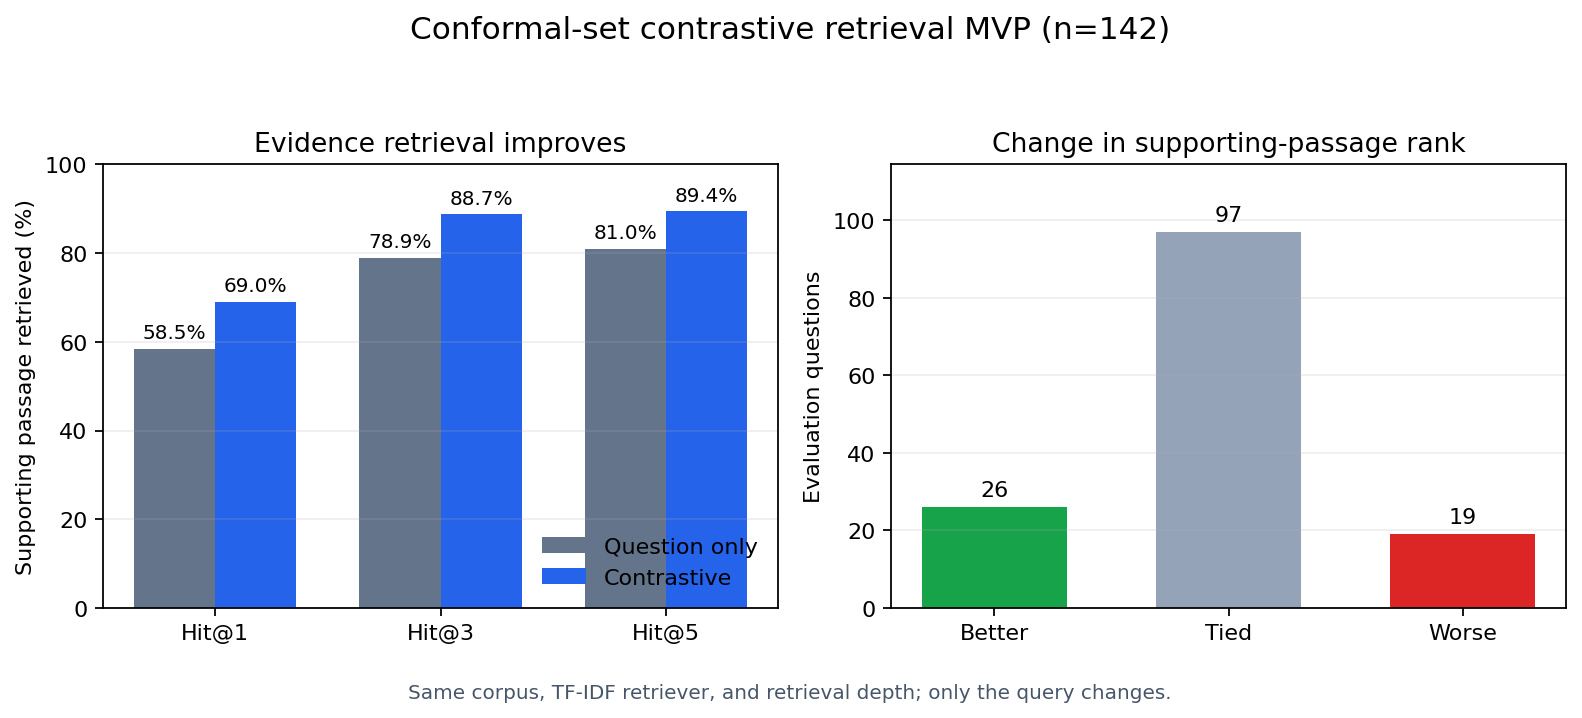
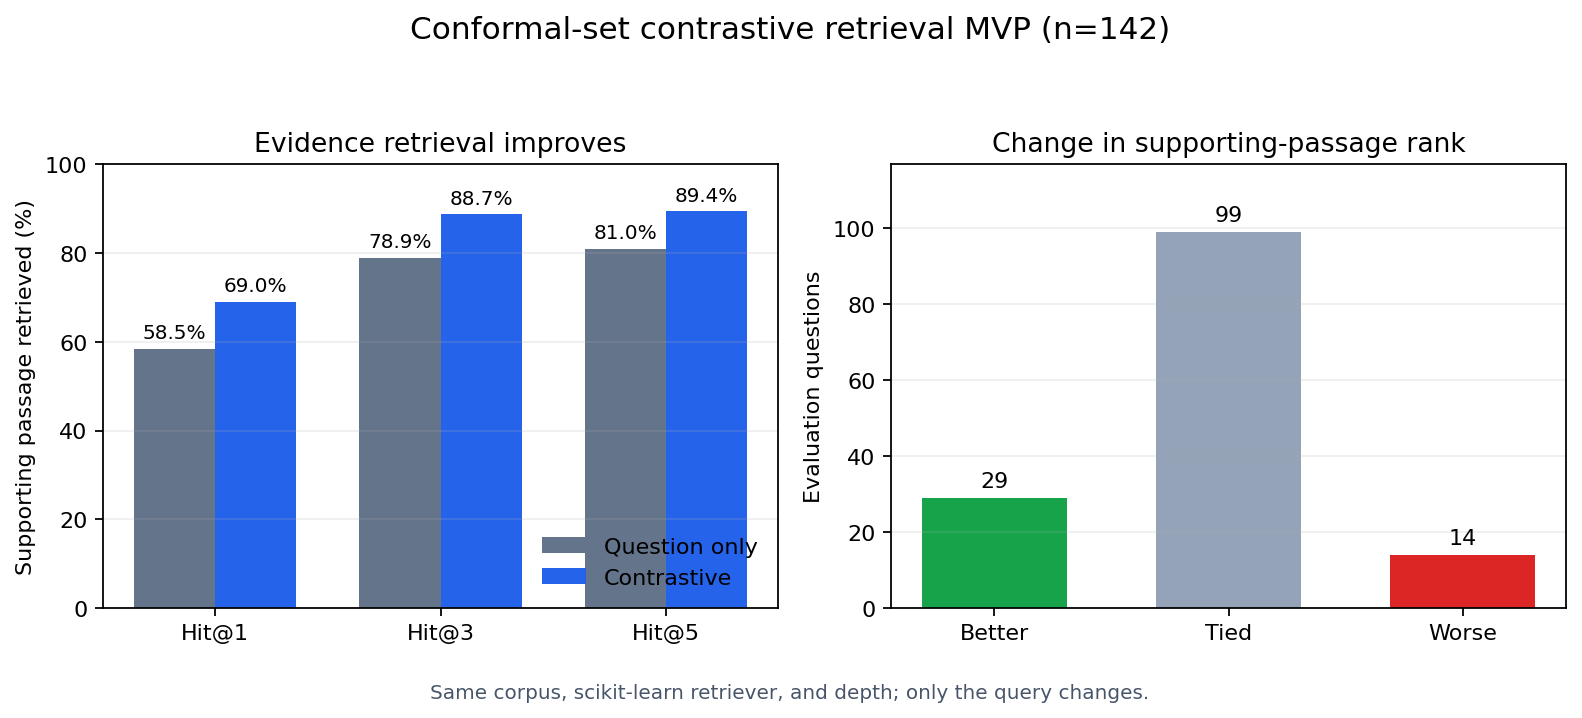
Use scikit-learn nearest-neighbor retrieval

diff --git a/experiments/contrastive_retrieval.py b/experiments/contrastive_retrieval.py
@@ -45,8 +45,11 @@ import numpy as np
 # Matplotlib draws the two result charts.
 from matplotlib import pyplot as plt
 
-# TfidfVectorizer is the small lexical search engine used in both conditions.
+# TfidfVectorizer converts passages and queries into weighted word vectors.
 from sklearn.feature_extraction.text import TfidfVectorizer
+
+# NearestNeighbors performs the cosine-similarity search and ranking.
+from sklearn.neighbors import NearestNeighbors
 
 
 # The current demo asks the VLM for one of these six option letters.
@@ -174,8 +177,8 @@ def contrastive_query(
     )
 
 
-class TfidfRetriever:
-    """A minimal lexical retriever that keeps the query comparison controlled."""
+class SklearnTfidfRetriever:
+    """A scikit-learn lexical retriever used identically for both query types."""
 
     def __init__(self, documents: Sequence[str]):
         # A search engine cannot be fitted without documents.
@@ -194,6 +197,11 @@ class TfidfRetriever:
         )
         # Learn the vocabulary and represent every passage as a sparse vector.
         self.document_matrix = self.vectorizer.fit_transform(self.documents)
+        # Ask scikit-learn to compare vectors using cosine distance. "Brute"
+        # checks every document, which is simple and fast for this 97-passage corpus.
+        self.neighbor_index = NearestNeighbors(metric="cosine", algorithm="brute")
+        # Fit the reusable search index on the document vectors.
+        self.neighbor_index.fit(self.document_matrix)
 
     def ranks(
         self, queries: Sequence[str], relevant_indices: Sequence[int]
@@ -202,18 +210,20 @@ class TfidfRetriever:
         # Each query must be paired with one known supporting-passage index.
         if len(queries) != len(relevant_indices):
             raise ValueError("queries and relevant_indices must have equal length")
-        # Turn queries into TF-IDF vectors, then compute all query-document dot
-        # products. TF-IDF normalizes vectors, so these are cosine similarities.
-        similarities = self.vectorizer.transform(queries) @ self.document_matrix.T
+        # Represent each query with the vocabulary learned from the passages.
+        query_matrix = self.vectorizer.transform(queries)
+        # Let scikit-learn rank every passage from nearest to farthest. We ask for
+        # every passage because evaluation needs the exact rank of the known hint.
+        _, ordered_documents = self.neighbor_index.kneighbors(
+            query_matrix,
+            n_neighbors=len(self.documents),
+        )
         # This list will hold positions such as 1st, 2nd, or 10th.
         ranks: List[int] = []
         # Evaluate one query and its known supporting passage at a time.
         for row_index, relevant_index in enumerate(relevant_indices):
-            # Convert this sparse similarity row into a simple score array.
-            scores = similarities.getrow(row_index).toarray()[0]
-            # Negating scores lets ascending argsort produce highest-first order.
-            # Stable sorting makes tied scores deterministic across runs.
-            ordered = np.argsort(-scores, kind="stable")
+            # Read the library-produced document order for this query.
+            ordered = ordered_documents[row_index]
             # Find the zero-based position of the supporting passage, then add
             # one so a best result is reported as rank 1 rather than rank 0.
             ranks.append(int(np.flatnonzero(ordered == relevant_index)[0]) + 1)
@@ -327,7 +337,7 @@ def plot_results(result: Mapping[str, Any], output_path: Path) -> None:
     figure.text(
         0.5,
         0.01,
-        "Same corpus, TF-IDF retriever, and retrieval depth; only the query changes.",
+        "Same corpus, scikit-learn retriever, and depth; only the query changes.",
         ha="center",
         fontsize=9,
         color="#475569",
@@ -443,7 +453,7 @@ def run_experiment(
     # Translate every known hint into the retriever's numeric document index.
     relevant_indices = [document_indices[hint] for _, _, hint in eligible]
     # Step 5: fit one retriever, ensuring both query types use the same search index.
-    retriever = TfidfRetriever(documents)
+    retriever = SklearnTfidfRetriever(documents)
     # Retrieve with the question-only queries and record supporting-passage ranks.
     baseline_ranks = retriever.ranks(baseline_queries, relevant_indices)
     # Retrieve again with contrastive queries, changing nothing else.
@@ -481,7 +491,7 @@ def run_experiment(
             "alpha": alpha,
             "qhat": qhat,
             "split": "even record id = calibration; odd record id = evaluation",
-            "retriever": "word TF-IDF cosine similarity",
+            "retriever": "scikit-learn TF-IDF + cosine NearestNeighbors",
             "top_k": list(top_k),
         },
         # These counts show how the original 4,377 records become 142 trials.

diff --git a/README.md b/README.md
@@ -28,8 +28,9 @@ only those surviving answer texts to the retrieval query find the supporting
 passage more often than querying with the question alone?
 
 It uses an even-ID calibration / odd-ID evaluation split, treats the 97 unique
-MMBench hints as the retrieval corpus, and holds the TF-IDF retriever and depth
-fixed so that only the query changes.
+MMBench hints as the retrieval corpus, and holds scikit-learn's TF-IDF plus
+cosine `NearestNeighbors` retriever and depth fixed so that only the query
+changes.
 
 ```bash
 python -m experiments.contrastive_retrieval \
@@ -39,9 +40,9 @@ python -m experiments.contrastive_retrieval \
 ```
 
 On the 142 eligible held-out non-singletons, the contrastive query improved
-hit@1 from 58.5% to 69.0%, hit@3 from 78.9% to 88.7%, and MRR from 0.688 to
-0.783. It improved the paired supporting-passage rank in 26 cases, tied in 97,
-and worsened it in 19. The committed JSON contains the complete run output.
+hit@1 from 58.5% to 69.0%, hit@3 from 78.9% to 88.7%, and MRR from 0.682 to
+0.781. It improved the paired supporting-passage rank in 29 cases, tied in 99,
+and worsened it in 14. The committed JSON contains the complete run output.
 
 ![Contrastive retrieval experiment results](results/contrastive_retrieval_mvp.png)
 
